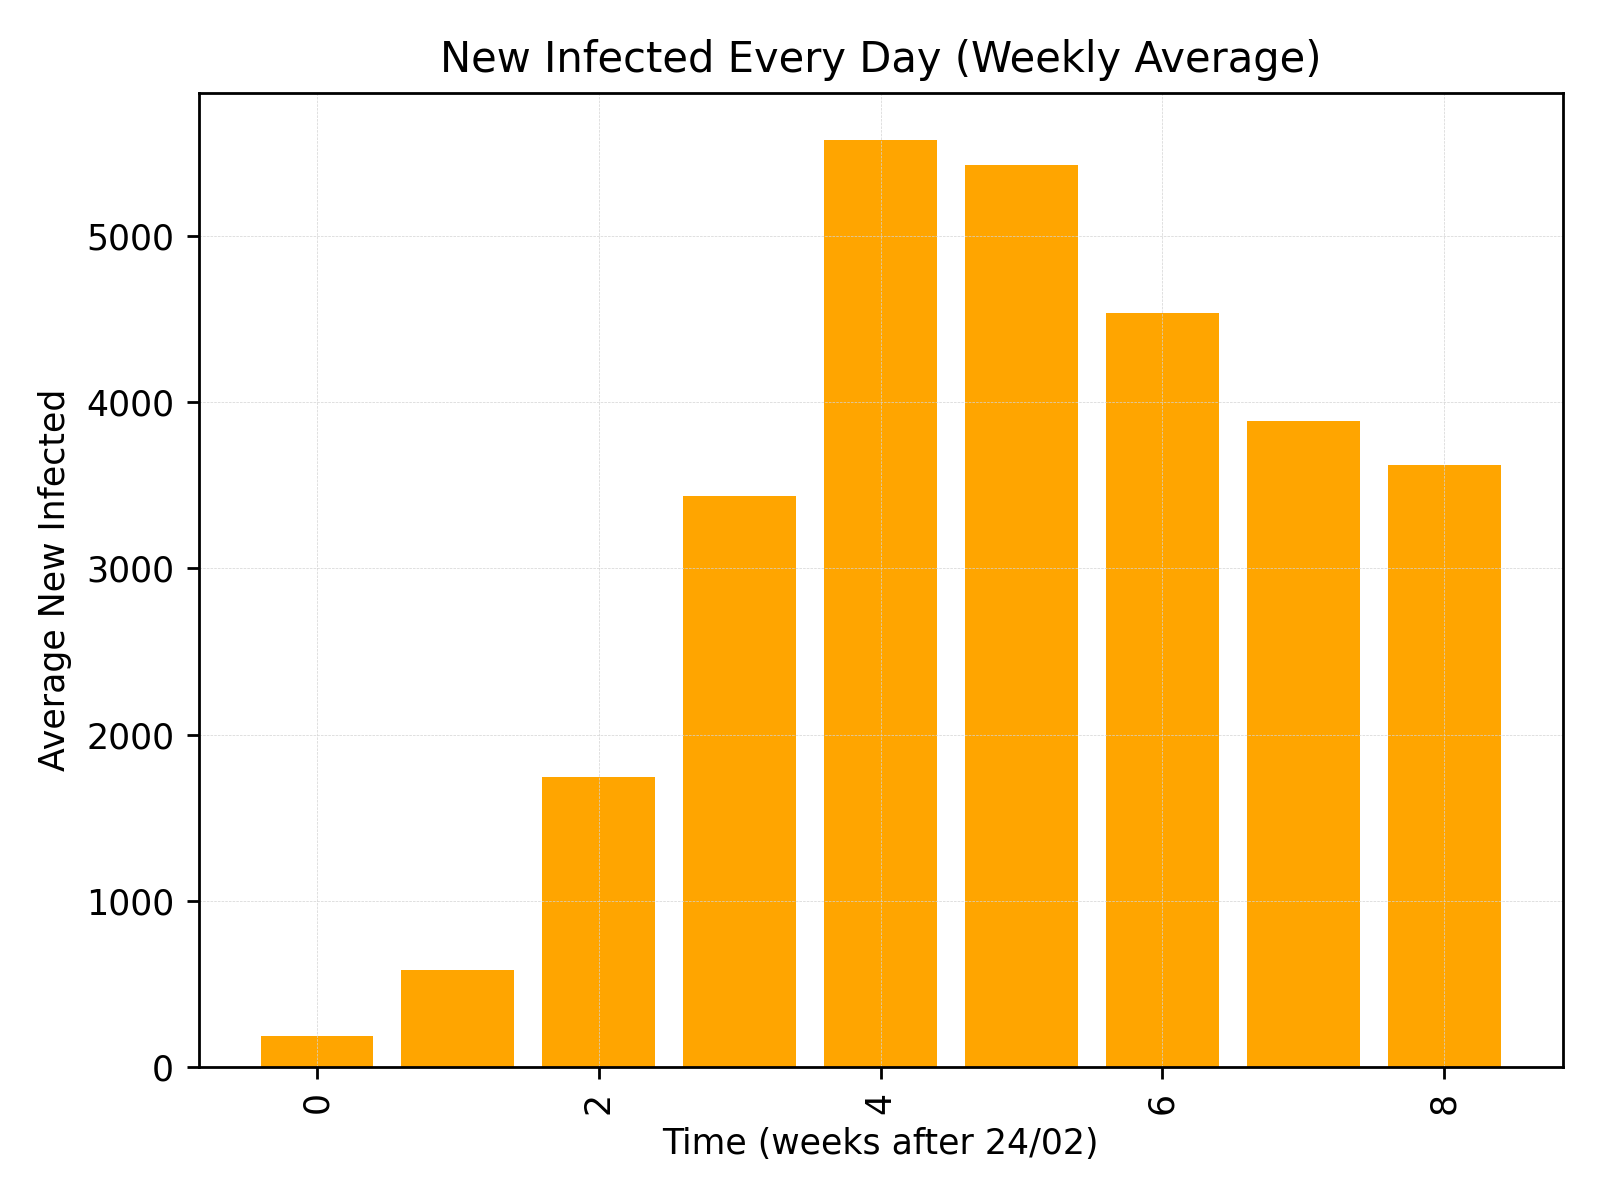
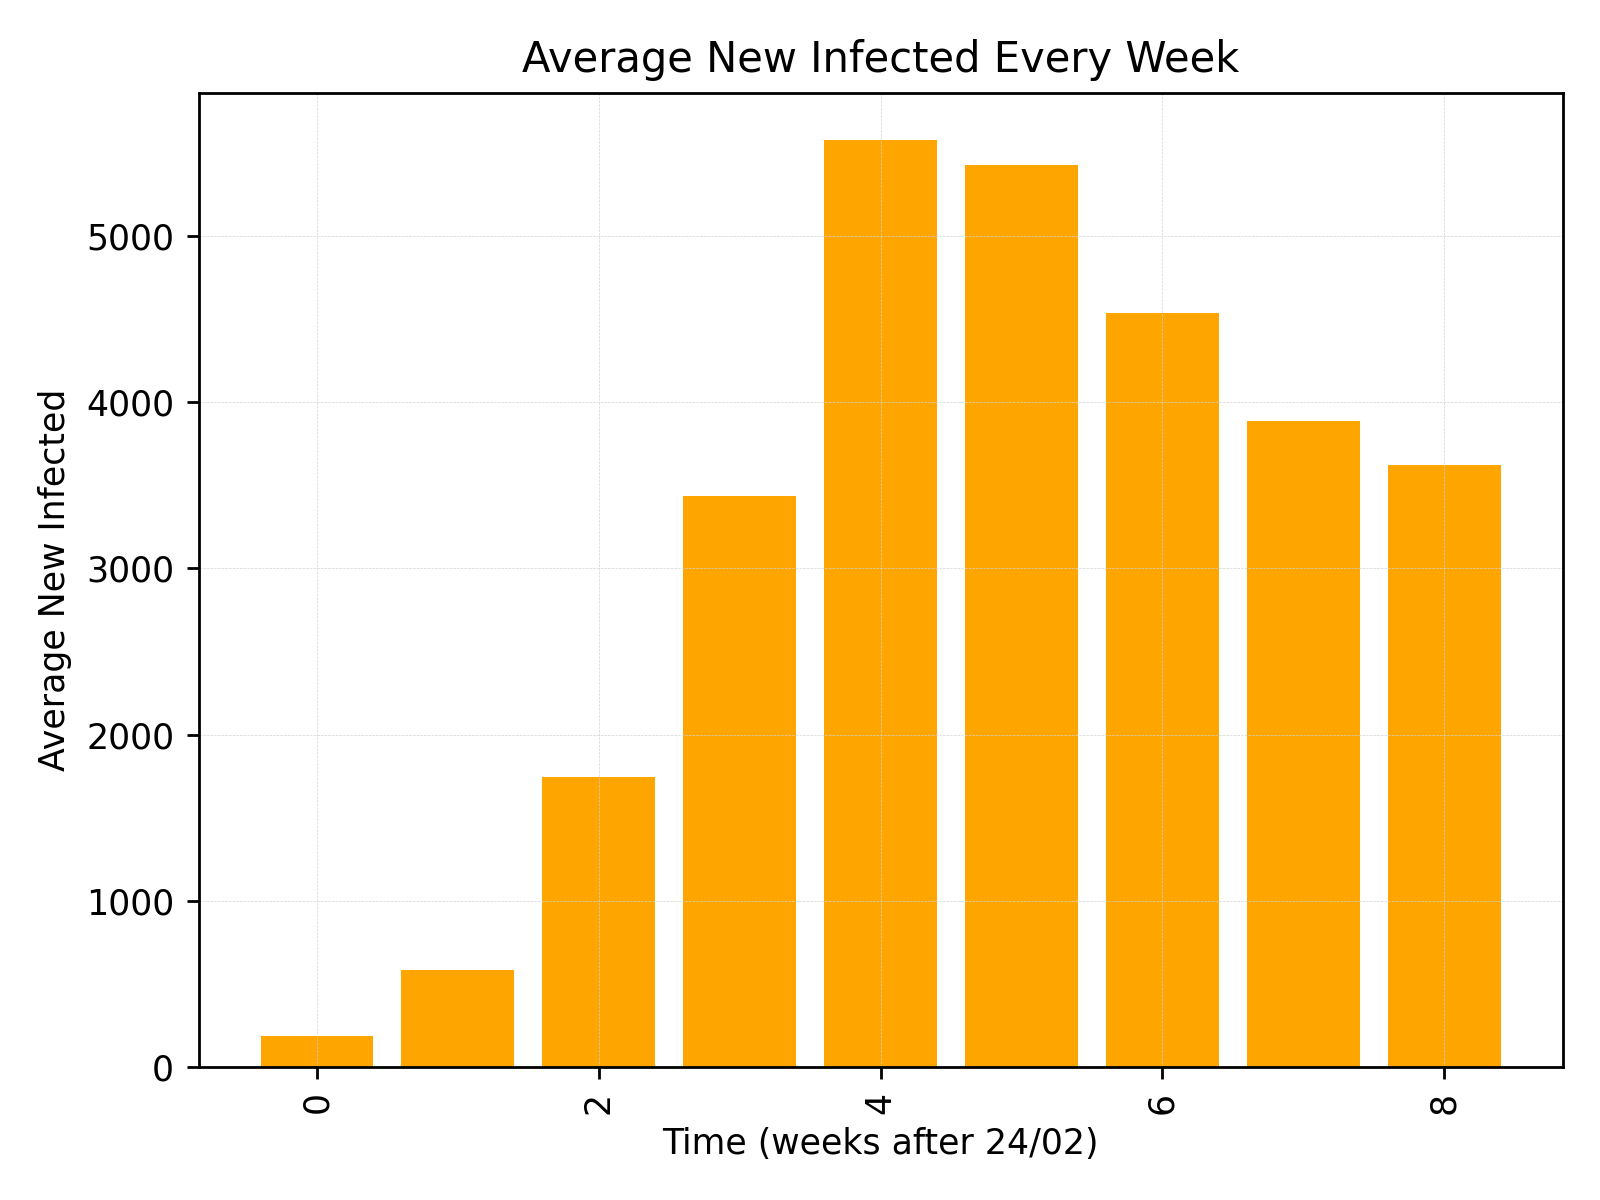
minor

Changed region(s): [[0.2812, 0.0308, 0.8438, 0.0617]]

diff --git a/national.py b/national.py
@@ -485,7 +485,7 @@ ax = fig.add_subplot(1, 1, 1)
 plt.ylabel('Average New Infected')
 plt.xticks(rotation=90)
 plt.xlabel('Time (weeks after 24/02)')
-plt.title('New Infected Every Day (Weekly Average)')
+plt.title('Average New Infected Every Week')
 plt.grid(linestyle='--', linewidth=0.2, color='lightgrey')
 plt.bar(weeks, ave_dataset['nuovi_positivi'], color='orange')
 plt.tight_layout()
